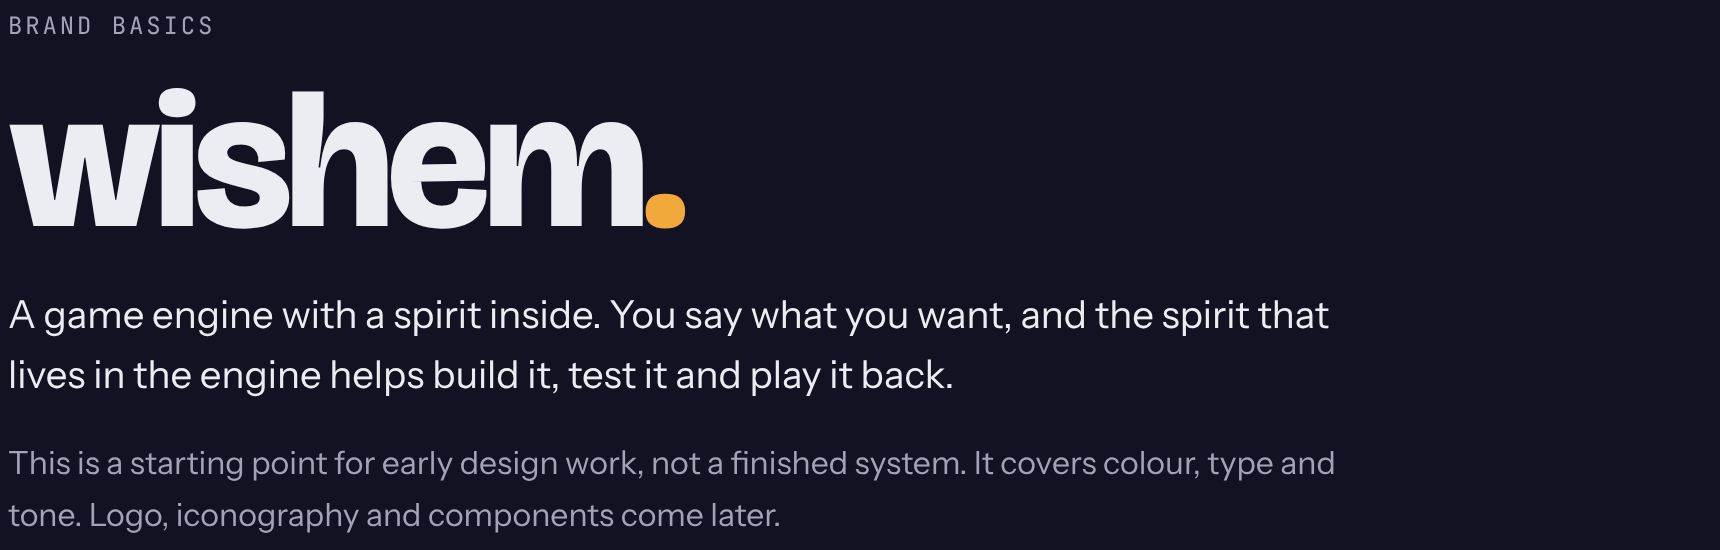
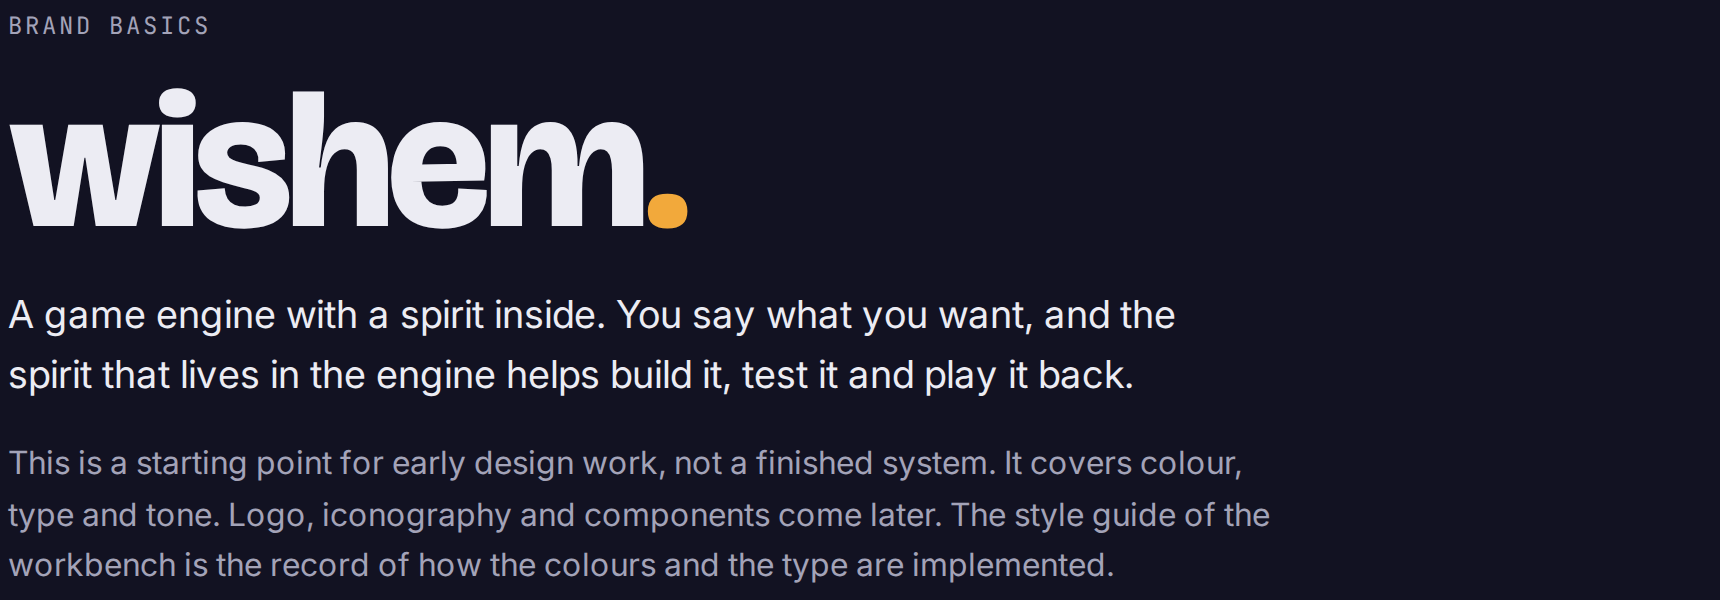
docs(wishem): update the brand files to the decided colors and type

diff --git a/nodejs/wishem/docs/brand/brand-basics.html b/nodejs/wishem/docs/brand/brand-basics.html
@@ -4,12 +4,12 @@
     <meta charset="utf-8" />
     <meta name="viewport" content="width=device-width, initial-scale=1" />
     <title>Wishem Brand Basics</title>
-    <!-- Visual companion to ../brand.md. Render images with: node brand/render.mjs -->
+    <!-- Visual companion to ../brand.md. Render images with: node nodejs/wishem/workbench-app/scripts/browser-server.js node ../docs/brand/render.mjs -->
     <link rel="preconnect" href="https://fonts.googleapis.com" />
     <link rel="preconnect" href="https://fonts.gstatic.com" crossorigin />
     <link
       rel="stylesheet"
-      href="https://fonts.googleapis.com/css2?family=Bricolage+Grotesque:opsz,wght@12..96,400;12..96,600;12..96,800&family=Instrument+Sans:ital,wght@0,400;0,500;0,600;1,400&family=JetBrains+Mono:wght@400;500&display=swap"
+      href="https://fonts.googleapis.com/css2?family=Bricolage+Grotesque:opsz,wght@12..96,400;12..96,600;12..96,800&family=Inter:ital,opsz,wght@0,14..32,400..600;1,14..32,400&family=JetBrains+Mono:wght@400;500&display=swap"
     />
     <style>
       /* Layout: single reading column; swatches and specimens break into wrapping grids. */
@@ -17,9 +17,11 @@
         /* Brand colours: fixed in both themes */
         --ink: #17172a;
         --wishfire: #f2a93b;
-        --wishfire-deep: #a8620f;
+        --wishfire-deep: #9e5b0c;
         --wisp: #7fd6c6;
         --wisp-deep: #23786b;
+        --moonlight: #c2d0ea;
+        --moonlight-deep: #3f5682;
         --clay: #c8b9a9;
         --mist: #f2f2f6;
 
@@ -35,7 +37,7 @@
         --on-light: #17172a;
 
         --display: 'Bricolage Grotesque', 'Segoe UI', system-ui, sans-serif;
-        --body: 'Instrument Sans', 'Helvetica Neue', Arial, sans-serif;
+        --body: 'Inter', 'Helvetica Neue', Arial, sans-serif;
         --mono: 'JetBrains Mono', ui-monospace, 'SFMono-Regular', Menlo, monospace;
       }
       @media (prefers-color-scheme: dark) {
@@ -421,7 +423,8 @@
         </p>
         <p class="lede">
           This is a starting point for early design work, not a finished system. It covers colour, type and tone. Logo,
-          iconography and components come later.
+          iconography and components come later. The style guide of the workbench is the record of how the colours and
+          the type are implemented.
         </p>
       </header>
 
@@ -449,7 +452,7 @@
                 <h3>Wishfire</h3>
                 <p>
                   The maker's colour. Primary actions, the prompt box, the cursor, "make it so" moments. Use
-                  <code>#A8620F</code> for text on light surfaces.
+                  <code>#9E5B0C</code> for text on light surfaces.
                 </p>
               </div>
             </div>
@@ -464,12 +467,23 @@
               </div>
             </div>
             <div class="swatch">
+              <div class="chip" style="background: var(--moonlight); color: var(--on-light)">#C2D0EA</div>
+              <div class="meta">
+                <h3>Moonlight</h3>
+                <p>
+                  The light of the night, which belongs to no one. Neither the maker nor the spirit owns it, so it
+                  carries focus, selection and the accent of the interface. Use <code>#3F5682</code> for text on light
+                  surfaces.
+                </p>
+              </div>
+            </div>
+            <div class="swatch">
               <div class="chip" style="background: var(--clay); color: var(--on-light)">#C8B9A9</div>
               <div class="meta">
                 <h3>Clay</h3>
                 <p>
                   Warm neutral, for the golem's material. Illustration, borders on dark, subtle texture. It's a
-                  supporting colour, never a headline.
+                  supporting colour, never a headline. The workbench gives it no role.
                 </p>
               </div>
             </div>
@@ -494,6 +508,7 @@
           </div>
         </div>
         <ul class="rules">
+          <li>Moonlight is cool and quiet, so it never competes with the maker's fire or the spirit's wisp.</li>
           <li>Wishfire is scarce on purpose. If everything glows, nothing feels granted.</li>
           <li>
             Never let Wishfire and Wisp swap roles. A user button in Wisp, or an agent message in Wishfire, breaks the
@@ -542,7 +557,7 @@
             </div>
             <div class="spec">
               <div class="label">
-                <strong>Instrument Sans</strong><span>Body and UI. Docs, menus, agent replies. Weights 400–600.</span>
+                <strong>Inter</strong><span>Body and UI. Docs, menus, agent replies. Weights 400–600.</span>
               </div>
               <div class="sample s-body">
                 Wishem ran your level 40 times overnight. Two runs got stuck behind the gate in room 3, and the replays
@@ -559,17 +574,15 @@
           </div>
 
           <div class="scale" aria-label="Type scale in pixels">
-            <span style="font-size: 12px">12</span><span style="font-size: 14px">14</span
-            ><span style="font-size: 16px">16</span><span style="font-size: 20px">20</span
+            <span style="font-size: 12px">12</span><span style="font-size: 13px">13</span
+            ><span style="font-size: 14px">14</span><span style="font-size: 16px">16</span
+            ><span style="font-size: 18px">18</span><span style="font-size: 22px">22</span
             ><span style="font-size: 25px">25</span><span style="font-size: 31px">31</span
             ><span style="font-size: 39px">39</span><span style="font-size: 49px">49</span>
           </div>
         </div>
         <ul class="rules">
-          <li>
-            Use a 1.25 ratio from a 16px base. Keep display sizes for headings, the wordmark and hero lines. In UI,
-            Instrument Sans does almost all the work.
-          </li>
+          <li>Keep display sizes for headings, the wordmark and hero lines. In UI, Inter does almost all the work.</li>
           <li>
             Write the wordmark in lowercase: <em>wishem</em>. Its spark is a Wishfire full stop or the dot of the i.
             Don't split it to show "shem." The hidden meaning stays hidden.

diff --git a/nodejs/wishem/docs/brand.md b/nodejs/wishem/docs/brand.md
@@ -9,9 +9,9 @@
 
 This file connects how Wishem looks and sounds to what Wishem is. Each colour, typeface and phrase traces back to the same idea: a maker who wishes things into being, and a spirit that grants those wishes. When a design choice isn't covered here, make the choice that tells that story.
 
-It is also the input for Wishem's in-app style guide (see [`docs/ui-style-guide.md`](../../../docs/ui-style-guide.md)). Once the editor UI exists, the colours and type below become its design tokens, and the style guide becomes the source of truth for how they are implemented. This file stays the source of truth for why they look that way. Logo, iconography and components come later.
+It is also the input for Wishem's in-app style guide (see [`docs/ui-style-guide.md`](../../../docs/ui-style-guide.md)). The colours and type below are the design tokens of the workbench, and its style guide is the record of how they are implemented. This file stays the source of truth for why they look that way. Logo, iconography and components come later.
 
-The images here are rendered from [`brand/brand-basics.html`](brand/brand-basics.html), which shows the whole guide as a page. If you change a colour, a typeface or a sample, change it in both files, then run `node nodejs/wishem/docs/brand/render.mjs` to update the images.
+The images here are rendered from [`brand/brand-basics.html`](brand/brand-basics.html), which shows the whole guide as a page. If you change a colour, a typeface or a sample, change it in both files, then run `node nodejs/wishem/workbench-app/scripts/browser-server.js node ../docs/brand/render.mjs` to update the images.
 
 ## Colour: ink, fire and wisp
 
@@ -19,19 +19,21 @@ The palette tells a story about who is acting. **Wishfire** belongs to the maker
 
 <picture>
   <source media="(prefers-color-scheme: dark)" srcset="brand/palette-dark.png">
-  <img alt="Swatches for Ink, Wishfire, Wisp, Clay and Mist, with a bar showing their proportions" src="brand/palette-light.png">
+  <img alt="Swatches for Ink, Wishfire, Wisp, Moonlight, Clay and Mist, with a bar showing their proportions" src="brand/palette-light.png">
 </picture>
 
-| Colour       | Hex       | Role                                                                                                                                                 |
-| ------------ | --------- | ---------------------------------------------------------------------------------------------------------------------------------------------------- |
-| **Ink**      | `#17172A` | Primary ground. Dark mode base, the editor, hero surfaces. The engine feels at home at night.                                                        |
-| **Wishfire** | `#F2A93B` | The maker's colour. Primary actions, the prompt box, the cursor, "make it so" moments. Use `#A8620F` for text on light surfaces.                     |
-| **Wisp**     | `#7FD6C6` | The spirit's colour. Agent messages, suggestions, test and replay activity, "the agent is working" states. Use `#23786B` for text on light surfaces. |
-| **Clay**     | `#C8B9A9` | Warm neutral, for the golem's material. Illustration, borders on dark, subtle texture. It's a supporting colour, never a headline.                   |
-| **Mist**     | `#F2F2F6` | Light ground and text on Ink. A slightly cool white, so Wishfire stays the only warm thing on the screen.                                            |
+| Colour        | Hex       | Role                                                                                                                                                                                                 |
+| ------------- | --------- | ---------------------------------------------------------------------------------------------------------------------------------------------------------------------------------------------------- |
+| **Ink**       | `#17172A` | Primary ground. Dark mode base, the editor, hero surfaces. The engine feels at home at night.                                                                                                        |
+| **Wishfire**  | `#F2A93B` | The maker's colour. Primary actions, the prompt box, the cursor, "make it so" moments. Use `#9E5B0C` for text on light surfaces.                                                                     |
+| **Wisp**      | `#7FD6C6` | The spirit's colour. Agent messages, suggestions, test and replay activity, "the agent is working" states. Use `#23786B` for text on light surfaces.                                                 |
+| **Moonlight** | `#C2D0EA` | The light of the night, which belongs to no one. Neither the maker nor the spirit owns it, so it carries focus, selection and the accent of the interface. Use `#3F5682` for text on light surfaces. |
+| **Clay**      | `#C8B9A9` | Warm neutral, for the golem's material. Illustration, borders on dark, subtle texture. It's a supporting colour, never a headline. The workbench gives it no role.                                   |
+| **Mist**      | `#F2F2F6` | Light ground and text on Ink. A slightly cool white, so Wishfire stays the only warm thing on the screen.                                                                                            |
 
 Roughly how much of each: Ink 60%, Mist 25%, Clay 7%, Wisp 5%, Wishfire 3%.
 
+- Moonlight is cool and quiet, so it never competes with the maker's fire or the spirit's wisp.
 - Wishfire is scarce on purpose. If everything glows, nothing feels granted.
 - Never let Wishfire and Wisp swap roles. A user button in Wisp, or an agent message in Wishfire, breaks the "who did this?" signal.
 - Keep success, warning and error colours separate from the brand pair. Don't use Wishfire as a warning colour.
@@ -50,18 +52,18 @@ The brand uses one face for presence, one for clarity and one for the words you 
 
 <picture>
   <source media="(prefers-color-scheme: dark)" srcset="brand/type-dark.png">
-  <img alt="Type specimens for Bricolage Grotesque, Instrument Sans and JetBrains Mono, and the starter type scale" src="brand/type-light.png">
+  <img alt="Type specimens for Bricolage Grotesque, Inter and JetBrains Mono, and the type scale" src="brand/type-light.png">
 </picture>
 
 | Typeface                | Role                                                                               | Sample                                                                                                             |
 | ----------------------- | ---------------------------------------------------------------------------------- | ------------------------------------------------------------------------------------------------------------------ |
 | **Bricolage Grotesque** | Display. Headlines, the wordmark, big moments. Weight 800, tight tracking.         | Say it. Watch it spawn.                                                                                            |
-| **Instrument Sans**     | Body and UI. Docs, menus, agent replies. Weights 400–600.                          | Wishem ran your level 40 times overnight. Two runs got stuck behind the gate in room 3, and the replays are ready. |
+| **Inter**               | Body and UI. Docs, menus, agent replies. Weights 400–600.                          | Wishem ran your level 40 times overnight. Two runs got stuck behind the gate in room 3, and the replays are ready. |
 | **JetBrains Mono**      | Prompts, code, logs, labels. Whatever the user types to the spirit is set in mono. | `> give the boss a second phase at half health`                                                                    |
 
-Starter scale, in pixels: 12, 14, 16, 20, 25, 31, 39, 49.
+Type scale, in pixels: 12, 13, 14, 16, 18, 22, 25, 31, 39, 49.
 
-- Use a 1.25 ratio from a 16px base. Keep display sizes for headings, the wordmark and hero lines. In UI, Instrument Sans does almost all the work.
+- Keep display sizes for headings, the wordmark and hero lines. In UI, Inter does almost all the work.
 - Write the wordmark in lowercase: _wishem_. Its spark is a Wishfire full stop or the dot of the i. Don't split it to show "shem." The hidden meaning stays hidden.
 - Use sentence case everywhere. Uppercase is for small mono labels only, with letter spacing.
 

diff --git a/openspec/changes/496-workbench-design-system/tasks.md b/openspec/changes/496-workbench-design-system/tasks.md
@@ -52,9 +52,9 @@ Interfaces: consumes `scripts/browser-server.js` of the package, to get a web br
 
 Read `nodejs/wishem/docs/brand.md` in full first. That file uses the voice of the brand, not the plain style of the other documents. Keep that voice. The values are in the `component-catalog` specification.
 
-- [ ] 4.1 Update `brand.md` and `brand-basics.html` together: add Moonlight (`#C2D0EA`, with `#3F5682` for text on a light surface) as a sixth color, with the role "the light of the night, which belongs to no one"; change the Wishfire value for text on a light surface to `#9E5B0C`; replace Instrument Sans with Inter; replace the type scale with the sizes 12, 13, 14, 16, 18, 22, 25, 31, 39, and 49, and remove the sentence about the 1.25 ratio; say that Clay has no role in the workbench; say that the style guide of the workbench now records how the colors and the type are implemented. Verify: a search for `Instrument`, `A8620F`, and `1.25` in the two files finds no match.
-- [ ] 4.2 Change `render.mjs` as `design.md` D11 says, so that it works with the browser server. Make the brand images again. Verify: each image in `brand/` is new, and the palette image shows Moonlight in light mode and in dark mode.
-- [ ] 4.3 Update `nodejs/wishem/docs/README.md`: the style guide of the workbench is the record of the implementation, and say how to start it. Run `pnpm update-readme` so that the package list of the root `README.md` has the new package. Verify: `pnpm update-readme` makes no more changes on a second run, and the merge check for the README passes.
+- [x] 4.1 Update `brand.md` and `brand-basics.html` together: add Moonlight (`#C2D0EA`, with `#3F5682` for text on a light surface) as a sixth color, with the role "the light of the night, which belongs to no one"; change the Wishfire value for text on a light surface to `#9E5B0C`; replace Instrument Sans with Inter; replace the type scale with the sizes 12, 13, 14, 16, 18, 22, 25, 31, 39, and 49, and remove the sentence about the 1.25 ratio; say that Clay has no role in the workbench; say that the style guide of the workbench now records how the colors and the type are implemented. Verify: a search for `Instrument`, `A8620F`, and `1.25` in the two files finds no match.
+- [x] 4.2 Change `render.mjs` as `design.md` D11 says, so that it works with the browser server. Make the brand images again. Verify: each image in `brand/` is new, and the palette image shows Moonlight in light mode and in dark mode.
+- [x] 4.3 Update `nodejs/wishem/docs/README.md`: the style guide of the workbench is the record of the implementation, and say how to start it. Run `pnpm update-readme` so that the package list of the root `README.md` has the new package. Verify: `pnpm update-readme` makes no more changes on a second run, and the merge check for the README passes.
 
 ## Workflow follow-up
 

diff --git a/nodejs/wishem/docs/README.md b/nodejs/wishem/docs/README.md
@@ -47,6 +47,7 @@ Text with no label has no status. It is explanation, an example, or the reading 
 - `vision.md`: what Wishem is, what makes it different, what it does, what it is not, and where the name comes from.
 - `brand.md`: the colors, type, and voice of Wishem, and how to tell the story of the name. This file uses the brand voice, not the plain style of the other files, and it has no status labels.
 - `design-system/style-guide-preview.html`: a static page that shows the design tokens, the typography, and each component of the workbench in each state. It is the result of the brainstorm for [Workbench design system](https://github.com/twin-digital/opus/issues/496). It is a preview, not a specification.
+- The style guide of the workbench: the record of how the colors and the type are implemented. It shows the design tokens, the typography, and each component in each state. To start it, run `pnpm --filter @thrashplay/wishem-workbench-app style-guide`. See `nodejs/wishem/workbench-app/README.md`.
 - `concepts.md`: the project and its two parts, the entity and component model, the three kinds of directive, subsystems, and contracts.
 - `glossary.md`: one term for each concept, and the terms that are not used.
 - `rules.md`: the numbered rules that every part of Wishem obeys, with the reason for each rule and the alternatives that were rejected. This file is the record of what is decided until a specification exists.
